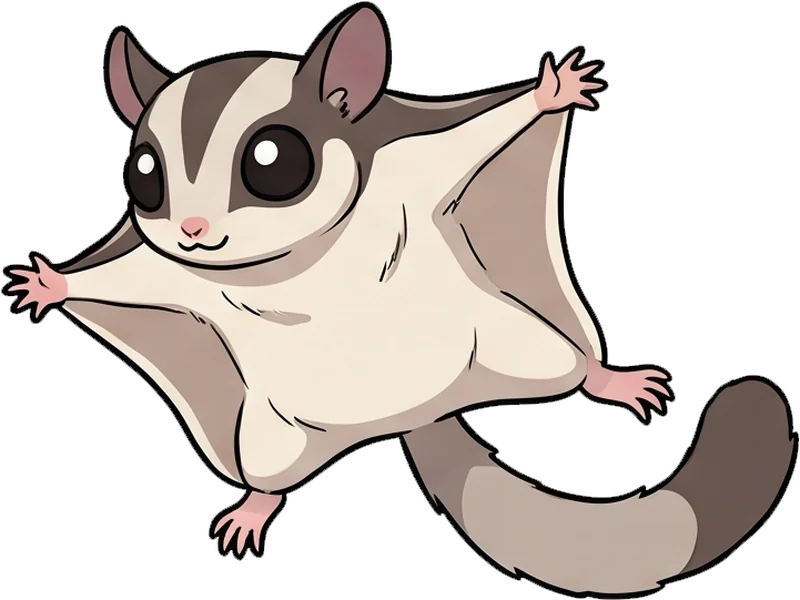
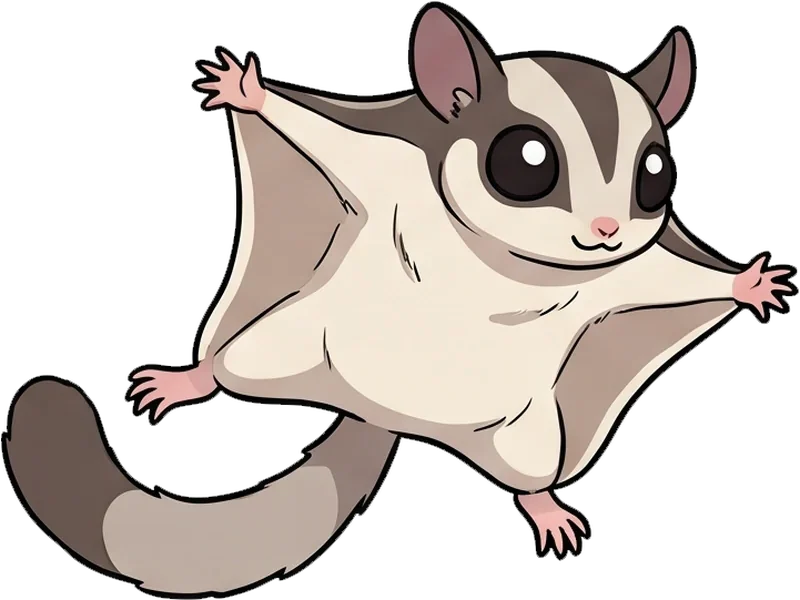
Ground the house on the garden, enlarge house and garden
House 110% and standing on the garden's top edge, garden 130% with
its top kept, galvalume tile at 80%, dog/parakeet/momonga mirrored to
face the middle.

Claude-Session: https://claude.ai/code/session_019RTRH81Sf379n12V2CwBBc

diff --git a/builder.html b/builder.html
@@ -309,16 +309,16 @@ body.gloom{background:var(--gloom) url(assets/ui/bg_gloom.jpg) center top / cove
     ]},
     { key:"wall", label:"label_wall", opts:[
       { id:"tile", name:"白いタイル", src:P+"wall_tile.jpg" },
-      { id:"galva", name:"ガルバリウム", src:P+"wall_galva.jpg" },
+      { id:"galva", name:"ガルバリウム", src:P+"wall_galva.jpg", tile:.8 },
       { id:"log", name:"ログハウス風", src:P+"wall_log.jpg" },
       { id:"candy", name:"お菓子の家風", src:P+"wall_candy.jpg" },
       { id:"gold", name:"金ぱく", src:P+"wall_gold.jpg" }
     ]},
     { key:"garden", label:"label_garden", opts:[
-      { id:"pool", name:"プール", src:P+"garden_pool.webp" },
-      { id:"flower", name:"ガーデニング", src:P+"garden_flower.webp" },
-      { id:"farm", name:"畑", src:P+"garden_farm.webp" },
-      { id:"lawn", name:"芝生の庭", src:P+"garden_lawn.webp" }
+      { id:"pool", name:"プール", src:P+"garden_pool.webp", edge:.142 },
+      { id:"flower", name:"ガーデニング", src:P+"garden_flower.webp", edge:.031 },
+      { id:"farm", name:"畑", src:P+"garden_farm.webp", edge:.058 },
+      { id:"lawn", name:"芝生の庭", src:P+"garden_lawn.webp", edge:.144 }
     ]},
     { key:"pet", label:"label_pet", opts:[
       { id:"dog", name:"犬", src:P+"pet_dog.webp" },
@@ -335,11 +335,13 @@ body.gloom{background:var(--gloom) url(assets/ui/bg_gloom.jpg) center top / cove
     house:  { x:.206, y:.294, w:.588, h:.374 },   // house bottom = 1/3 from the bottom
     garden: { x:.026, y:.655, w:.840, h:.345 },   // from the house front to the bottom edge
     fly:    { x:.118, y:.154, w:.300, h:.137 },   // bird, momonga: upper left of the house
-    land:   { x:.702, y:.573, w:.278, h:.204 },   // dog, cat: lower right, over the garden edge
-    dino:   { x:.560, y:.420, w:.430, h:.360 }    // the dino needs a bigger box in the same corner
+    land:   { x:.702, y:.603, w:.278, h:.204 },   // dog, cat: lower right, over the garden edge
+    dino:   { x:.560, y:.450, w:.430, h:.360 }    // the dino needs a bigger box in the same corner
   };
   var PET_BOX = { dog:"land", cat:"land", bird:"fly", momonga:"fly", dino:"dino" };
-  var WALL_TILE = 320;            // px of one wall texture tile on the picture
+  var GROUND = .75;               // house bottom = where the garden's ground begins (fraction of height)
+  var HOUSE_ZOOM = 1.1, GARDEN_ZOOM = 1.3;
+  var WALL_TILE = 320;            // px of one wall texture tile on the picture (times the wall's own tile factor)
   var BARE_WALL = "#E9E6E1";      // wall color before a wall is chosen
 
   var cache = {};
@@ -428,14 +430,21 @@ body.gloom{background:var(--gloom) url(assets/ui/bg_gloom.jpg) center top / cove
   }
 
   // the house walls are see-through: paint the wall texture inside the house shape, then the house on top
-  function drawHouse(hImg, shapeImg, tImg){
-    var r = place(hImg, BOX.house);
+  function zoom(r, k){
+    var w = r.w * k, h = r.h * k;
+    return { x: r.x + (r.w - w) / 2, y: r.y + r.h - h, w: w, h: h };
+  }
+
+  function drawHouse(hImg, shapeImg, tImg, tile){
+    var r = zoom(place(hImg, BOX.house), HOUSE_ZOOM);
+    r.y = GROUND * H - r.h;                   // stand the house on the garden's top edge
     var f = document.createElement("canvas");
     f.width = Math.ceil(r.w); f.height = Math.ceil(r.h);
     var fx = f.getContext("2d");
     if (tImg){
-      for (var yy = 0; yy < f.height; yy += WALL_TILE)
-        for (var xx = 0; xx < f.width; xx += WALL_TILE) fx.drawImage(tImg, xx, yy, WALL_TILE, WALL_TILE);
+      var t = WALL_TILE * (tile || 1);
+      for (var yy = 0; yy < f.height; yy += t)
+        for (var xx = 0; xx < f.width; xx += t) fx.drawImage(tImg, xx, yy, t, t);
     } else {
       fx.fillStyle = BARE_WALL;
       fx.fillRect(0, 0, f.width, f.height);
@@ -444,6 +453,13 @@ body.gloom{background:var(--gloom) url(assets/ui/bg_gloom.jpg) center top / cove
     fx.drawImage(shapeImg, 0, 0, f.width, f.height);
     ctx.drawImage(f, r.x, r.y, r.w, r.h);
     ctx.drawImage(hImg, r.x, r.y, r.w, r.h);
+  }
+
+  // garden: bigger than its box (sides may run off the picture), its ground edge meets the house bottom
+  function drawGarden(img, edge){
+    var r = zoom(place(img, BOX.garden), GARDEN_ZOOM);
+    r.y = GROUND * H - edge * r.h;
+    ctx.drawImage(img, r.x, r.y, r.w, r.h);
   }
 
   function drawIn(img, b){
@@ -463,8 +479,8 @@ body.gloom{background:var(--gloom) url(assets/ui/bg_gloom.jpg) center top / cove
       if (seq !== drawSeq) return;
       ctx.clearRect(0, 0, W, H);
       ctx.drawImage(r[0], 0, 0, W, H);
-      if (upto >= 2) drawHouse(r[1], r[2], upto >= 3 ? r[3] : null);
-      if (upto >= 4) drawIn(r[4], BOX.garden);
+      if (upto >= 2) drawHouse(r[1], r[2], upto >= 3 ? r[3] : null, wall.tile);
+      if (upto >= 4) drawGarden(r[4], garden.edge);
       if (upto >= 5) drawIn(r[5], BOX[PET_BOX[pet.id]]);
       if (withTitle){
         var y = Math.round(H * 0.055);
